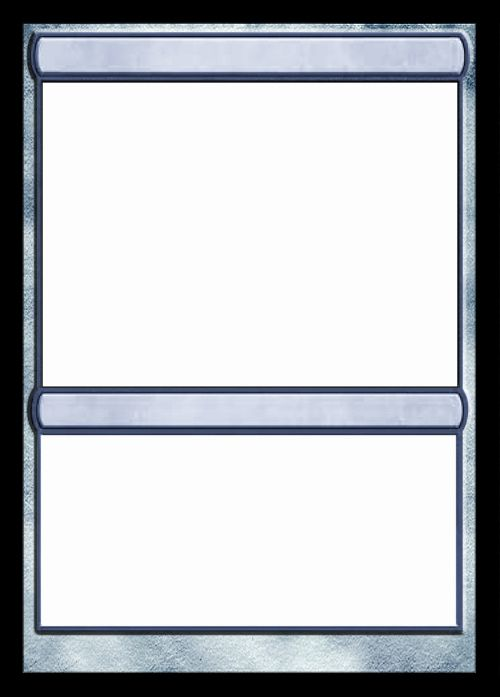
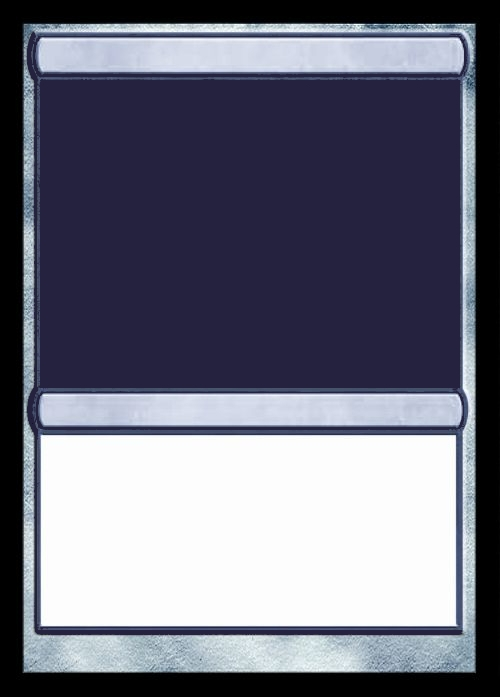
Update magicard display color

diff --git a/assets/css/card.css b/assets/css/card.css
@@ -61,8 +61,6 @@
 	display: flex;
 	justify-content: center;
 	align-items: stretch;
-
-	background-color: #23213de0;
 }
 
 .card__image img {
